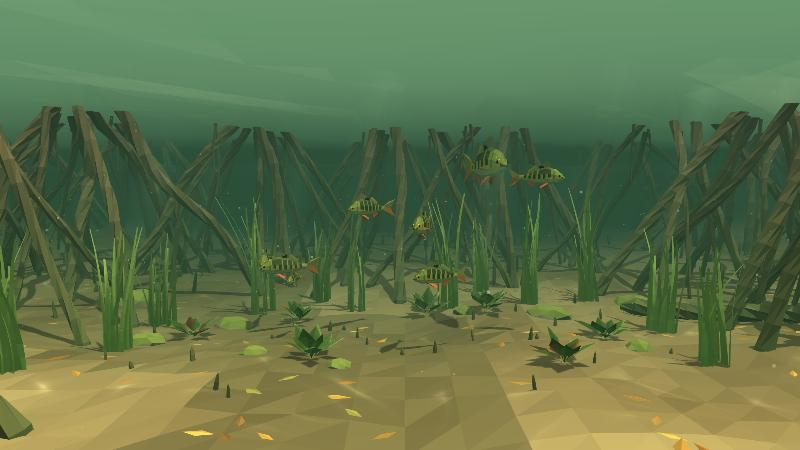
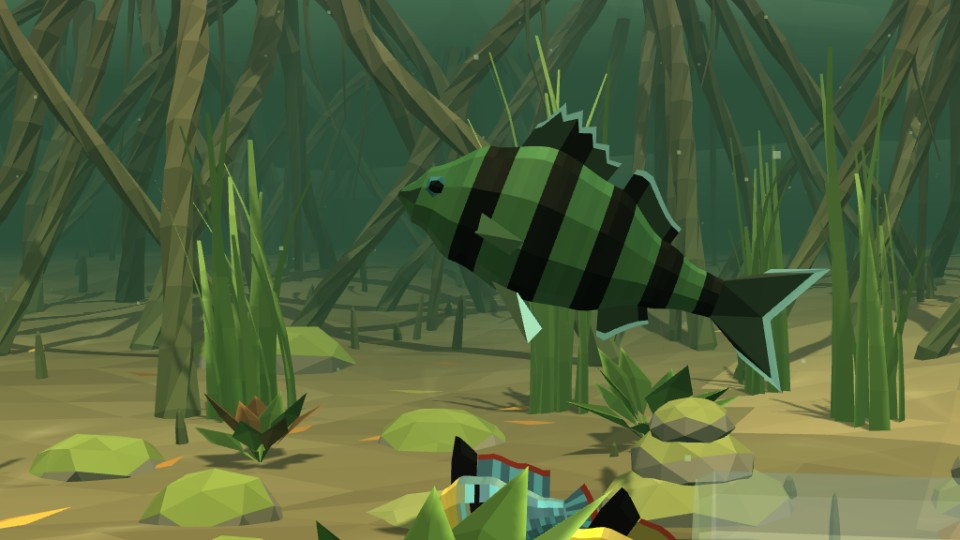
Cichlids back on the perch body with vertical bars; new thumbnails

diff --git a/playground/aquarium.html b/playground/aquarium.html
@@ -642,33 +642,69 @@ function palette(obj, r, keep = []) {
   return C;
 }
 
-// Tanganyika cichlids: lamprologine bodies, fairly deep, dark green with bold black bars from belly to back,
-// running on up into the dorsal fin. The bars are laid on the body's rings so their edges stay clean.
-const CICH_DEEP = 1.3;
-const CICH_P = { HU: [[0, .014], [.06, .055], [.18, .092], [.36, .102], [.6, .09], [.8, .062], [.92, .046], [1, .042]].map(([s, v]) => [s, v * CICH_DEEP]),
-  HL: [[0, .012], [.06, .042], [.18, .072], [.36, .084], [.6, .074], [.8, .052], [.92, .04], [1, .036]].map(([s, v]) => [s, v * CICH_DEEP]),
-  WW: [[0, .01], [.06, .036], [.2, .056], [.38, .06], [.6, .05], [.8, .034], [.92, .024], [1, .02]],
-  YC: [[0, -.012], [.12, -.004], [.3, 0], [1, 0]] };
-const CICH_NS = 36, CICH_BARS = [6, 13, 20, 27, 34];   // each bar covers three rings, with four-ring gaps between
-const cichBar = (ring) => CICH_BARS.some((b) => ring >= b && ring < b + 3);
+// Tanganyika cichlids on the old perch body (same loft, fin layout and forked tail), a fifth deeper,
+// dark green with bold black bars from belly to back that run on into the dorsal and anal fins.
+// The bars sit on the body's rings, and the fins have one segment per ring, so the edges stay clean.
+const CICH_DEEP = 1.2;
+const deepen = (keys) => keys.map(([s, v]) => [s, v * CICH_DEEP]);
+const CICH_P = { HU: deepen([[0, .012], [.07, .07], [.2, .135], [.38, .168], [.6, .142], [.8, .076], [.92, .05], [1, .045]]),
+  HL: deepen([[0, .012], [.07, .055], [.2, .1], [.38, .118], [.6, .104], [.8, .062], [.92, .043], [1, .038]]),
+  WW: [[0, .008], [.07, .04], [.2, .068], [.38, .08], [.6, .068], [.8, .043], [.92, .028], [1, .022]],
+  YC: [[0, -.025], [.12, -.01], [.3, 0], [1, 0]] };
+const CICH_NS = 36, CICH_BARS = [[7, 3], [14, 3], [21, 3], [28, 3], [34, 2]];   // [first ring, rings wide]
+const cichBar = (ring) => CICH_BARS.some(([b, n]) => ring >= b && ring < b + n);
 function cichlidGeo(seed, big) {
-  const r = mulberry(seed), K = fishKit(CICH_P), G = K.G;
+  const r = mulberry(seed), K = fishKit(CICH_P), G = K.G, { hu, hl, w, yc, zz } = K;
   const C = palette({ blk: 0x0b0f0b, g1: big ? 0x325c36 : 0x2b4f30, g2: big ? 0x426b3d : 0x3a6037, belly: 0x6f8a63, mouth: 0x24362a, fin: 0x141d17, fin2: 0x26382a,
     edge: 0x8cc4cc, pect: 0x5c7b52, eye: 0x2e6c78, pupil: 0x080a08 }, r, ["blk", "pupil"]);
   const jl = (c) => c.clone().offsetHSL(0, 0, (r() - 0.5) * 0.025);
-  fishBody(K, CICH_NS, 16, (s, kk) => {
+  fishBody(K, CICH_NS, 10, (s, kk) => {
     if (cichBar(Math.floor(s * CICH_NS))) return jl(C.blk);
-    if (s < 0.05 && kk >= 3) return jl(C.mouth);
-    return jl(kk >= 6 ? C.belly : kk >= 4 ? C.g2 : C.g1);
+    if (s < 0.06 && kk === 2) return jl(C.mouth);
+    return jl(kk <= 1 ? C.g1 : kk <= 3 ? C.g2 : C.belly);
   }, C.mouth, C.fin);
-  // dorsal and anal fins: one segment per ring, so the bars carry straight on into them
-  const barFin = (r0) => (j, o) => (o ? C.edge : cichBar(r0 + j) ? C.blk : C.fin2);
-  finLine(K, 6 / CICH_NS, 32 / CICH_NS, 26, (t) => 0.06 + 0.035 * t - (t < 0.08 ? (0.08 - t) * 0.3 : 0), 0.025, barFin(6), 0.8);
-  finLine(K, 20 / CICH_NS, 32 / CICH_NS, 12, (t) => 0.055 + 0.03 * t, 0.03, barFin(20), 0.8, true);
-  tailFan(K, 7, 0.125, 0.115, 0.18, 0, (j, o) => (o ? C.edge : j % 2 ? C.fin : C.fin2), 0.8);
-  pairFin(K, 0.33, 0, 0.08, 0.1, C.fin2, C.edge, true);
-  pairFin(K, 0.24, K.yc(0.24) - 0.02, 0.055, 0.11, C.pect, C.pect, false);
-  eyePair(K, 0.1, 0.28, 0.8, 0.014, 0.03, C.eye, C.pupil);
+  const ringS = (i) => i / CICH_NS, barFin = (r0) => (j, o) => (o ? C.edge : cichBar(r0 + j) ? C.blk : C.fin2);
+  { // spiny first dorsal
+    const r0 = 10, n = 10, base = [], top = [];
+    for (let j = 0; j <= n; j++) {
+      const t = j / n, s = ringS(r0 + j), by = yc(s) + hu(s) - 0.006, spine = j % 2 === 0;
+      const h = 0.13 * (t < 0.22 ? 0.55 + 2 * t : 1 - (t - 0.22) * 0.7) * (spine ? 1 : 0.74);
+      base.push(V(0, by, zz(s))); top.push(V(0, by + h, zz(s) - (spine ? 0.02 : 0.01)));
+    }
+    finStrip(G, base, top, barFin(r0), 0.8);
+  }
+  { // soft second dorsal
+    const r0 = 22, n = 7, base = [], top = [];
+    for (let j = 0; j <= n; j++) { const t = j / n, s = ringS(r0 + j), by = yc(s) + hu(s) - 0.006, h = 0.085 * (t < 0.25 ? 0.75 + t : 1 - (t - 0.25) * 0.55); base.push(V(0, by, zz(s))); top.push(V(0, by + h, zz(s) - 0.015)); }
+    finStrip(G, base, top, barFin(r0), 0.8);
+  }
+  { // anal fin
+    const r0 = 24, n = 5, base = [], top = [];
+    for (let j = 0; j <= n; j++) { const t = j / n, s = ringS(r0 + j), by = yc(s) - hl(s) + 0.006, h = 0.08 * (t < 0.2 ? 0.8 + t : 1 - (t - 0.2) * 0.6); base.push(V(0, by, zz(s))); top.push(V(0, by - h, zz(s) - 0.02)); }
+    finStrip(G, base, top, barFin(r0), 0.8);
+  }
+  { // forked tail, dark, with a pale edge round its outline
+    const R1 = V(0, yc(1) + hu(1) * 0.9, zz(1) + 0.005), R2 = V(0, yc(1) - hl(1) * 0.9, zz(1) + 0.005), mid = R1.clone().lerp(R2, 0.5);
+    const O = [V(0, 0.12, -0.4), V(0, 0.17, -0.53), V(0, 0.0, -0.44), V(0, -0.155, -0.52), V(0, -0.11, -0.4)], I = O.map((o) => mid.clone().lerp(o, 0.86));
+    G.tri(R1, I[0], I[1], C.fin); G.tri(R1, I[1], I[2], C.fin2); G.tri(R1, I[2], R2, C.fin); G.tri(R2, I[2], I[3], C.fin2); G.tri(R2, I[3], I[4], C.fin);
+    for (let k = 0; k < 4; k++) G.quad(I[k], O[k], O[k + 1], I[k + 1], C.edge);
+  }
+  for (const sd of [-1, 1]) {
+    { // pelvic fins
+      const s = 0.34, by = yc(s) - hl(s) * 0.92, z = zz(s);
+      const A = V(sd * 0.025, by, z), B = V(sd * 0.02, by + 0.004, z - 0.06), T = V(sd * 0.065, by - 0.085, z - 0.13), T2 = V(sd * 0.035, by - 0.05, z - 0.15);
+      G.tri(A, T, B, C.fin2); G.tri(B, T, T2, C.edge);
+    }
+    { // pectoral fins
+      const s = 0.24, x = sd * w(s) * 0.92, y = yc(s) - 0.02, z = zz(s);
+      const A = V(x, y + 0.022, z), B = V(x, y - 0.025, z - 0.005), T = V(x + sd * 0.06, y - 0.005, z - 0.12), T2 = V(x + sd * 0.03, y - 0.04, z - 0.1);
+      G.tri(A, T, B, C.pect); G.tri(B, T, T2, C.pect);
+    }
+    { // eyes
+      const s = 0.1, ex = sd * w(s) * 0.78, ey = yc(s) + hu(s) * 0.3, ez = zz(s);
+      blob(G, ex, ey, ez, 0.014, 0.032, 0.032, C.eye); blob(G, ex + sd * 0.013, ey, ez + 0.003, 0.008, 0.018, 0.018, C.pupil);
+    }
+  }
   return G.build();
 }
 
@@ -853,7 +889,7 @@ function makeFish(sp, o = {}) {
     headQ: new THREE.Quaternion(), baseQ: new THREE.Quaternion(), phase: Math.random() * 10, full: 0, fat: 0, meal: 0, rest: 0, dying: -1, enter: false, enterT: 0, fade: 1, eatenBy: null,
     hungryT: 0, eatT: 0, st: "", stT: 0, stLen: rand(4, 10), pitch: 0, pitchT: 0, dartT: 0, dartDir: new THREE.Vector3(), ang: Math.random() * 6.28, angDir: Math.random() < 0.5 ? -1 : 1,
     hOff: rand(1, 9), homeOwn: -1, homeT: 0, belly: 0.75, starve: 0, labelT: 0, seeking: false, chase: null, chaseT: 0, skip: null, skipT: 0, faceDir: null,
-    swim: sp !== "loach" && sp !== "shrimp", body: sp === "cichlid" ? 0.14 : 0.12, school: sp === "cichlid" && !o.big ? "c" : "", range: o.range || 120, seekMul: o.seekMul || 2, camR: o.camR || 30,
+    swim: sp !== "loach" && sp !== "shrimp", body: sp === "cichlid" ? 0.17 : 0.12, top: sp === "cichlid" ? 0.3 : 0.12, low: sp === "cichlid" ? 0.22 : 0.18, school: sp === "cichlid" && !o.big ? "c" : "", range: o.range || 120, seekMul: o.seekMul || 2, camR: o.camR || 30,
     u: { uPhase: { value: 0 }, uAmp: { value: 0.05 }, uFat: { value: 0 } } };
   f.v.setLength(f.cruise);
   let geo, mo = {};
@@ -984,7 +1020,7 @@ function updateSwimmer(f, dt, pred) {
   }
   f.full = Math.max(0, f.full - dt); f.meal = Math.max(0, f.meal - dt); f.eatT = Math.max(0, f.eatT - dt); f.stT += dt;
   const acc = A.set(0, 0, 0), fl = floorH(p.x, p.z), L = f.L, cr = f.cruise;
-  let vmax = cr, vmin = cr * 0.12, lo = fl + 2 + L * 0.2, hi = TOP - 5 - L * 0.12, goal = null, gSpeed = 0, yMax = TOP - 2 - L * (f.sp === "cichlid" ? 0.2 : 0.12);
+  let vmax = cr, vmin = cr * 0.12, lo = fl + 2 + L * 0.2, hi = TOP - 5 - L * 0.12, goal = null, gSpeed = 0, yMax = TOP - 2 - L * f.top;
   f.faceDir = null;
   f.wander.x += (Math.random() - 0.5) * dt * 2.5; f.wander.y += (Math.random() - 0.5) * dt * 0.8; f.wander.z += (Math.random() - 0.5) * dt * 2.5;
   f.wander.clampLength(0, 1);
@@ -1107,7 +1143,7 @@ function updateSwimmer(f, dt, pred) {
         const hd = headOf(f, T1).distanceTo(best.m.position);
         acc.addScaledVector(T1.subVectors(best.m.position, T1).normalize(), cr * 3.5);   // steer the mouth, not the middle
         vmax = Math.max(vmax, cr * (hd < L ? 1.2 : f.seekMul)); vmin = cr * 0.12;
-        lo = Math.min(lo, fl + L * 0.18 + 0.6); hi = Math.max(hi, TOP - 4);
+        lo = Math.min(lo, fl + L * f.low + 0.6); hi = Math.max(hi, TOP - 4);
         if (hd < L * 0.1 + 1.2 || bd < L * 0.2) eat(f, best);
       }
     }
@@ -1138,7 +1174,7 @@ function updateSwimmer(f, dt, pred) {
   p.addScaledVector(f.v, dt);
   if (!f.enter) p.x = clamp(p.x, -BX - 4, BX + 4);
   p.z = clamp(p.z, -BZ - 4, BZ + 4);
-  const yMin = () => floorH(p.x, p.z) + L * 0.18 + 0.6;
+  const yMin = () => floorH(p.x, p.z) + L * f.low + 0.6;
   p.y = clamp(p.y, yMin(), yMax);
   for (let i = 0; i < 2; i++) { if (!pushOutAll(p, L * f.body, false)) break; p.y = clamp(p.y, yMin(), yMax); }
   // face where it's going (pitch limited), or the thing it's feeling; rams tip forward to pick
